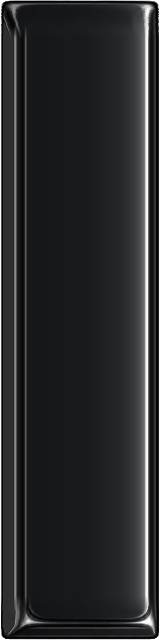
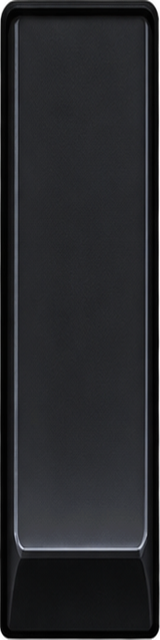
fix: integrate mobile layout and reference arcade keyboard

diff --git a/src/styles.css b/src/styles.css
@@ -199,6 +199,17 @@ body {
   overflow-y: hidden;
 }
 
+@media (width > 640px) and (height > 500px) {
+  .staff--single {
+    scrollbar-width: none;
+    scrollbar-gutter: auto;
+  }
+
+  .staff--single::-webkit-scrollbar {
+    height: 0;
+  }
+}
+
 /* One line: half a screen of margin on each side, so any note can sit in the middle. */
 .staff--single .staff-page {
   display: inline-block;
@@ -2016,16 +2027,19 @@ button.song-card.song-card__open {
   gap: 10px;
 }
 
-/* Compact controls and scores float above the full-height mobile playfield. */
+/* A compact left rail leaves the top of the mobile screen to the score. */
 @media (height <= 500px), (width <= 640px) {
   .shell-top {
     position: fixed;
     top: max(8px, env(safe-area-inset-top));
-    right: max(8px, env(safe-area-inset-right));
+    right: auto;
+    left: max(8px, env(safe-area-inset-left));
     margin: 0;
   }
 
   .topbar {
+    display: grid;
+    grid-template-columns: repeat(2, 34px);
     gap: 3px;
     align-items: center;
     padding: 3px;
@@ -2057,6 +2071,11 @@ button.song-card.song-card__open {
     height: 34px;
   }
 
+  .topbar > .play-button,
+  .topbar > .topbar-restart {
+    grid-area: auto;
+  }
+
   .topbar .play-button__ring {
     box-sizing: border-box;
     width: 28px;
@@ -2069,11 +2088,31 @@ button.song-card.song-card__open {
   }
 
   .compact-controls__menu {
+    position: fixed;
+    top: max(8px, env(safe-area-inset-top));
+    right: max(8px, env(safe-area-inset-right));
+    left: auto;
+    width: min(320px, calc(100vw - 104px - env(safe-area-inset-left) - env(safe-area-inset-right)));
     max-height: calc(100dvh - 64px - env(safe-area-inset-top));
   }
 
+  .compact-controls__views {
+    grid-template-columns: repeat(3, 44px);
+    justify-content: space-around;
+  }
+
+  .compact-practice__hands {
+    grid-template-columns: repeat(2, minmax(0, 1fr));
+  }
+
+  .compact-practice .segmented button {
+    padding-inline: 4px;
+    font-size: 12px;
+  }
+
   .workspace-main {
-    --mobile-score-top: calc(68px + env(safe-area-inset-top));
+    --mobile-score-top: max(4px, env(safe-area-inset-top));
+    --mobile-rail-width: calc(128px + env(safe-area-inset-left));
   }
 
   .workspace-main:has(> .staves)::before {
@@ -2089,7 +2128,7 @@ button.song-card.song-card__open {
   .workspace-main:has(> .lanes:not(.lanes--hidden)) > .staves {
     position: absolute;
     z-index: 2;
-    inset: var(--mobile-score-top) 0 auto;
+    inset: var(--mobile-score-top) 0 auto var(--mobile-rail-width);
     max-height: min(34cqh, 150px);
     padding: 0;
     border-bottom: 1px solid var(--border);
@@ -2110,6 +2149,7 @@ button.song-card.song-card__open {
 
   .workspace-main:has(> .lanes--hidden) > .staves {
     margin-top: var(--mobile-score-top);
+    margin-left: var(--mobile-rail-width);
     max-height: calc(100cqh - var(--mobile-score-top));
   }
 
@@ -2128,9 +2168,9 @@ button.song-card.song-card__open {
   .game-score-dock {
     position: fixed;
     z-index: 4;
-    top: max(8px, env(safe-area-inset-top));
+    top: calc(128px + env(safe-area-inset-top));
     left: max(8px, env(safe-area-inset-left));
-    width: min(420px, calc(100% - 216px - env(safe-area-inset-left) - env(safe-area-inset-right)));
+    width: 112px;
     padding: 0;
     background: transparent;
     pointer-events: none;
@@ -2141,12 +2181,14 @@ button.song-card.song-card__open {
     flex-direction: column;
     align-items: flex-start;
     gap: 2px;
+    width: 100%;
   }
 
   .game-score-dock .game-score-panel {
     justify-content: flex-start;
     gap: 3px 8px;
     max-width: 100%;
+    width: 100%;
     padding: 2px 4px;
     border: 0;
     border-radius: 4px;
@@ -2155,7 +2197,18 @@ button.song-card.song-card__open {
   }
 
   .game-score-dock .game-score-panel--points {
+    display: grid;
+    grid-template-columns: 22px minmax(0, 1fr);
     margin-left: 0;
+  }
+
+  .game-score-dock .game-score-panel--combo {
+    flex-direction: column;
+    align-items: flex-start;
+  }
+
+  .game-score-dock :is(.game-points, .game-overdrive) {
+    grid-column: 1 / -1;
   }
 
   .game-score-dock :is(.game-combo, .game-accuracy, .game-points) {
@@ -2172,6 +2225,10 @@ button.song-card.song-card__open {
   .game-score-dock :is(.game-combo__value, .game-accuracy strong, .game-points strong) {
     font-size: 14px;
     line-height: 1.2;
+  }
+
+  .game-score-dock .game-accuracy strong {
+    font-size: 13px;
   }
 
   .game-score-dock .game-multiplier strong {
@@ -2198,7 +2255,7 @@ button.song-card.song-card__open {
     display: block;
     flex: 0 0 80px;
     box-sizing: border-box;
-    width: 80px;
+    width: 100%;
     min-height: 32px;
     overflow: hidden;
     padding: 0 5px;
@@ -2214,15 +2271,6 @@ button.song-card.song-card__open {
 }
 
 @media (width <= 640px) and (orientation: portrait), (width <= 540px) {
-  .workspace-main {
-    --mobile-score-top: calc(128px + env(safe-area-inset-top));
-  }
-
-  .game-score-dock {
-    top: calc(54px + env(safe-area-inset-top));
-    width: calc(100% - 16px - env(safe-area-inset-left) - env(safe-area-inset-right));
-  }
-
   .workspace-main:has(> .lanes:not(.lanes--hidden)) > .staves,
   .workspace-main:has(> .lanes:not(.lanes--hidden)) .staff {
     max-height: min(30cqh, 200px);

diff --git a/src/render/KeyboardLayer.ts b/src/render/KeyboardLayer.ts
@@ -94,8 +94,8 @@ const KEY_STYLES: Readonly<Record<Exclude<KeyStyle, "perspective">, StyleSet>> =
       blackPressedLit: new URL("./keys-arcade/black-pressed-lit.webp", import.meta.url).href
     },
     // The pressed faces share the up faces' slices: their sunk bevel sits inside the bottom band.
-    white: { leftWidth: 20, topHeight: 50, rightWidth: 20, bottomHeight: 146 },
-    black: { leftWidth: 26, topHeight: 38, rightWidth: 22, bottomHeight: 91 },
+    white: { leftWidth: 16, topHeight: 32, rightWidth: 16, bottomHeight: 80 },
+    black: { leftWidth: 12, topHeight: 28, rightWidth: 12, bottomHeight: 88 },
     rail: new URL("./keys-arcade/case-rail.webp", import.meta.url).href
   }
 };
@@ -279,6 +279,7 @@ export class KeyboardLayer {
       (blackHeight - digitRoom - blackBevel) / BLACK_STICKER.height
     );
 
+    const whiteGap = this.painted && this.style === "arcade" ? 0.4 : 1;
     for (const [pitch, sprite] of this.keySprites) {
       const key = keys.get(pitch);
       const sticker = this.stickerSprites.get(pitch);
@@ -287,9 +288,9 @@ export class KeyboardLayer {
       if (!key) continue;
       this.placeKey(
         sprite,
-        key.x + (key.black ? 0 : 0.5),
+        key.x + (key.black ? 0 : whiteGap / 2),
         keyboardTop,
-        key.width - (key.black ? 0 : 1),
+        key.width - (key.black ? 0 : whiteGap),
         key.black ? blackHeight : keyboardHeight
       );
       if (!sticker) continue;
@@ -427,8 +428,10 @@ export class KeyboardLayer {
       return;
     }
     const scale = width / sprite.texture.width;
-    sprite.scale.set(scale);
-    sprite.setSize(sprite.texture.width, height / scale);
+    // Stretch the centre horizontally to keep arcade rims thin at every key width.
+    const centreStretch = this.style === "arcade" ? 2 : 1;
+    sprite.scale.set(scale / centreStretch, scale);
+    sprite.setSize(sprite.texture.width * centreStretch, height / scale);
   }
 
   /** Key faces at this keyboard's size; the old ones are freed once replaced. */

diff --git a/src/render/NotesLayer.ts b/src/render/NotesLayer.ts
@@ -227,8 +227,9 @@ export class NotesLayer {
     this.guides.removeChildren().forEach((child) => {
       child.destroy();
     });
-    // Electric-blue lane guides, with a stronger edge at each octave.
+    // White-key boundaries form the lanes; each octave has a stronger edge.
     for (const [pitch, key] of keys) {
+      if (key.black) continue;
       const line = new Sprite(Texture.WHITE);
       line.tint = OCTAVE_LINE;
       line.alpha = pitch % 12 === 0 ? 0.5 : 0.18;

diff --git a/src/render/FallingNotesView.ts b/src/render/FallingNotesView.ts
@@ -127,7 +127,7 @@ export class FallingNotesView {
   /** Settings made before `mount`, applied to the layers once they exist. */
   private noteNames: FallingNoteNames | undefined;
   private cards = true;
-  private keyStyle: KeyStyle = "classic";
+  private keyStyle: KeyStyle = "arcade";
   private cameraPrefs: CameraPrefs = DEFAULT_CAMERA;
 
   async mount(host: HTMLElement): Promise<void> {
